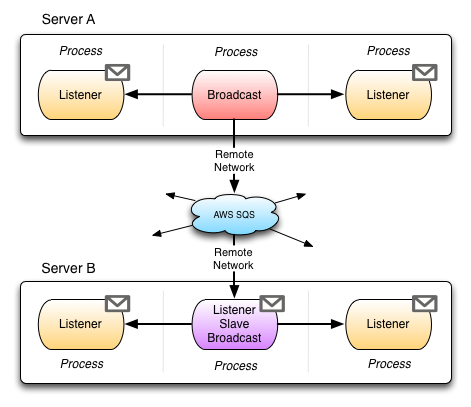
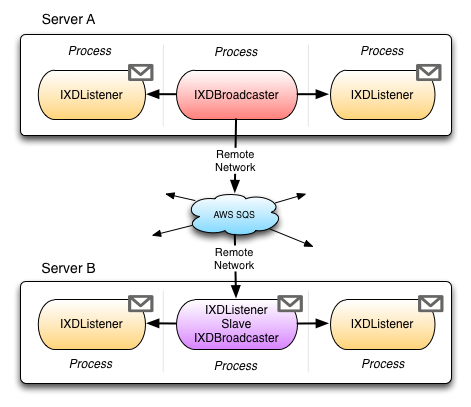
Content updates.

diff --git a/Advanced.md b/Advanced.md
@@ -32,7 +32,7 @@ If using multiple applications with conflicting channel names, it's possible to 
 
 ### Network Propagation
 
-Network propagation is a feature of the library that allows messages to leverage `HighPerformanceUI` or `Compatibility` modes, whilst additionally distributing messages to a remote server. This uses `RemoteNetwork` mode under the hood, and messages are re-broadcast on the remote server using the original transport mode.
+Network propagation is a feature of the library that allows messages to leverage `HighPerformanceUI` or `Compatibility` modes, whilst additionally distributing messages to a remote server. This uses `RemoteNetwork` mode under the hood, and messages are re-broadcast by a slave listener instance using the original transport. If the slave instance terminates, then another listener instance will automatically take it's place.
 
 ![Alt Network Propagtion](images/XDMessaging.png)
 
